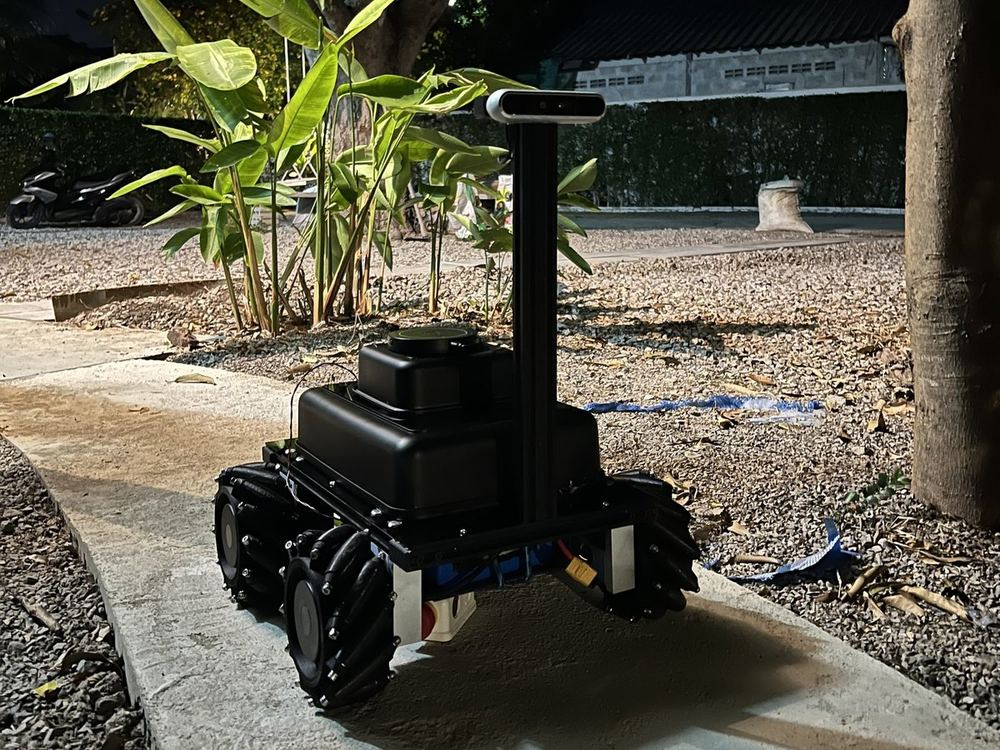
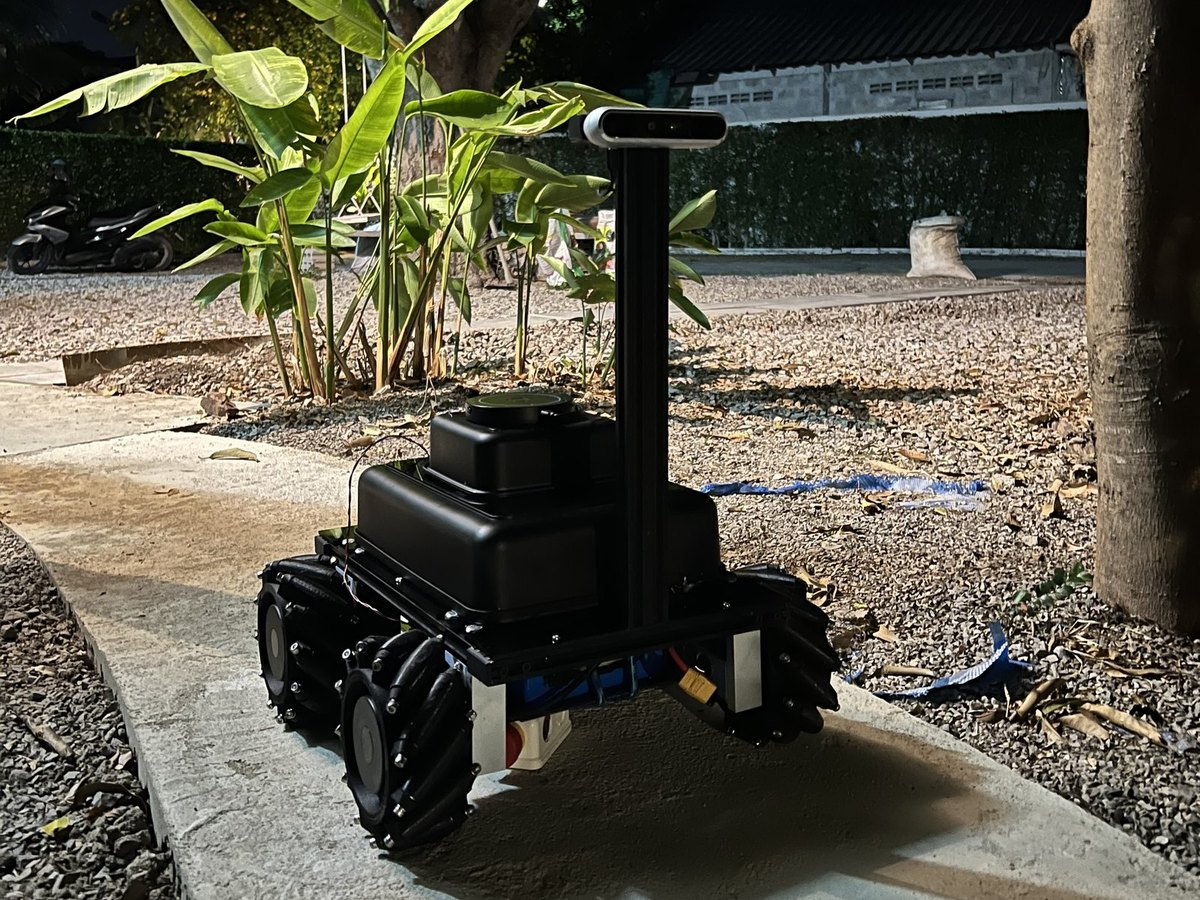
cards: the ORIGINAL 1200x900 photos are back (recovered from show-website/media, pre-crop)
metrox: 'prends les images d'origine, pas celles que tu avais tronquees'. Both
robots full and large, both photos 4:3, both boxes identical (4/3, 280px) -
same size cards, nothing cut, no fit-mode compromise left.

diff --git a/index.html b/index.html
@@ -213,7 +213,7 @@
 
       <!-- le rover, sous Vita -->
       <div data-reveal class="g-rover" style="display:flex;flex-direction:column;background:#0f1216;border:1px solid #1e2128;color:#edeef2;transition:border-color .3s,transform .3s" onmouseover="this.style.borderColor='#2a2e37';this.style.transform='translateY(-4px)'" onmouseout="this.style.borderColor='#1e2128';this.style.transform='none'">
-        <div class="side-media" style="background:#0b0d10;aspect-ratio:4/3;max-height:290px">
+        <div class="side-media" style="background:#0b0d10;aspect-ratio:4/3;max-height:280px">
           <img src="img/rover.jpg" alt="Rover holonomique à roues mecanum, caméra de profondeur sur mât, de nuit dans le jardin" style="position:absolute;inset:0;width:100%;height:100%;object-fit:cover">
         </div>
         <div style="padding:16px 20px 20px;display:flex;flex-direction:column;gap:6px">
@@ -255,7 +255,7 @@
         </a>
 
         <div data-reveal class="g-r3" style="display:flex;flex-direction:column;background:#0f1216;border:1px solid #1e2128;color:#edeef2;transition:border-color .3s,transform .3s" onmouseover="this.style.borderColor='#2a2e37';this.style.transform='translateY(-4px)'" onmouseout="this.style.borderColor='#1e2128';this.style.transform='none'">
-          <div class="side-media" style="background:radial-gradient(ellipse 75% 80% at 50% 32%,#c6c6c8,#8f8f92);aspect-ratio:1/1;max-height:310px">
+          <div class="side-media" style="background:radial-gradient(ellipse 75% 80% at 50% 32%,#c6c6c8,#8f8f92);aspect-ratio:4/3;max-height:280px">
             <img src="img/trader_bot.jpg" alt="Petit robot à chenilles avec une cravate" style="position:absolute;inset:0;width:100%;height:100%;object-fit:cover">
           </div>
           <div style="padding:16px 20px 20px;display:flex;flex-direction:column;gap:6px">